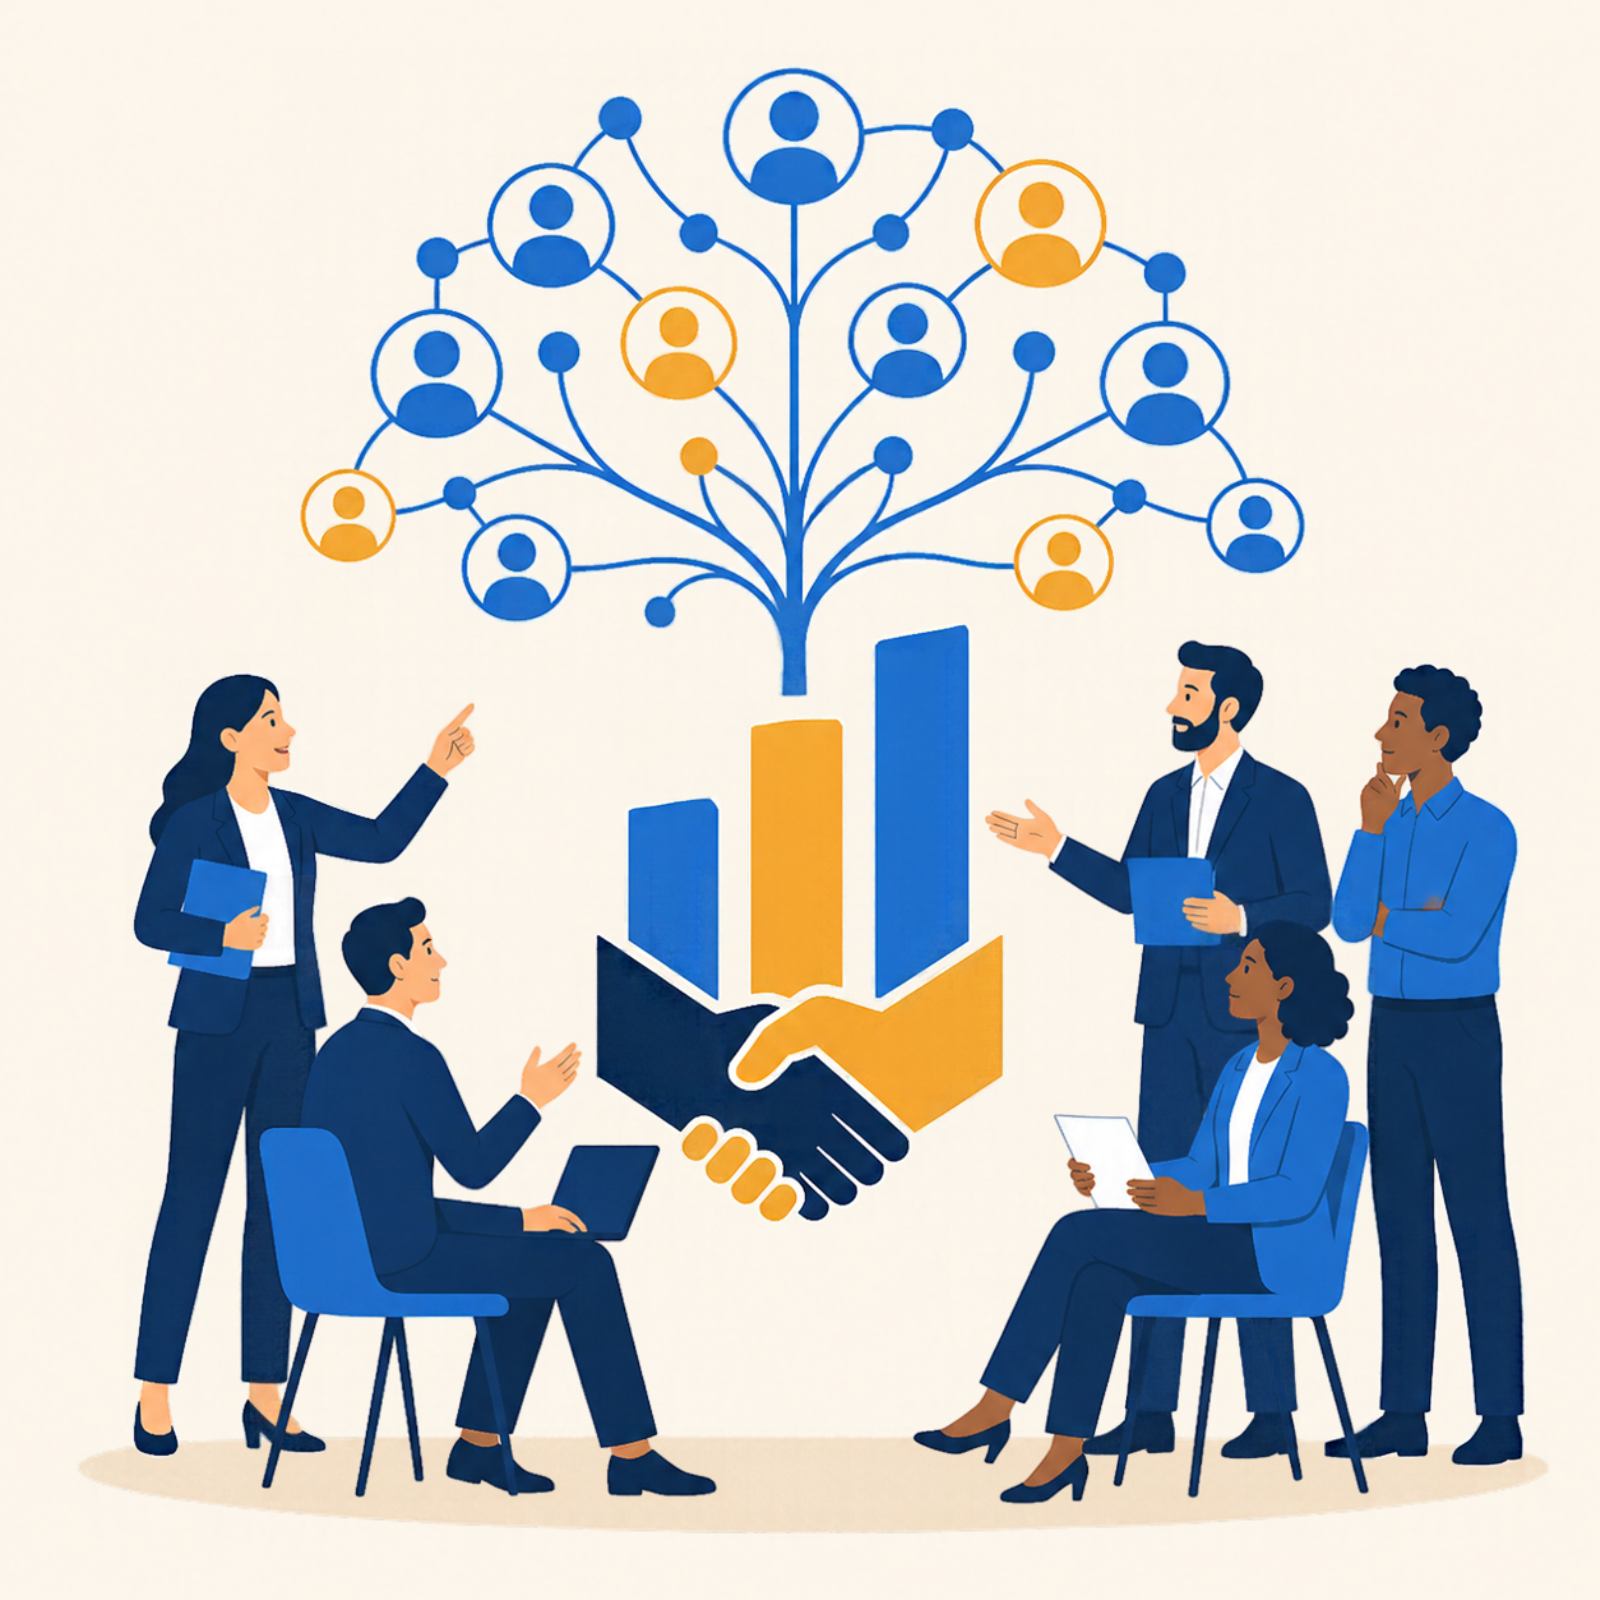
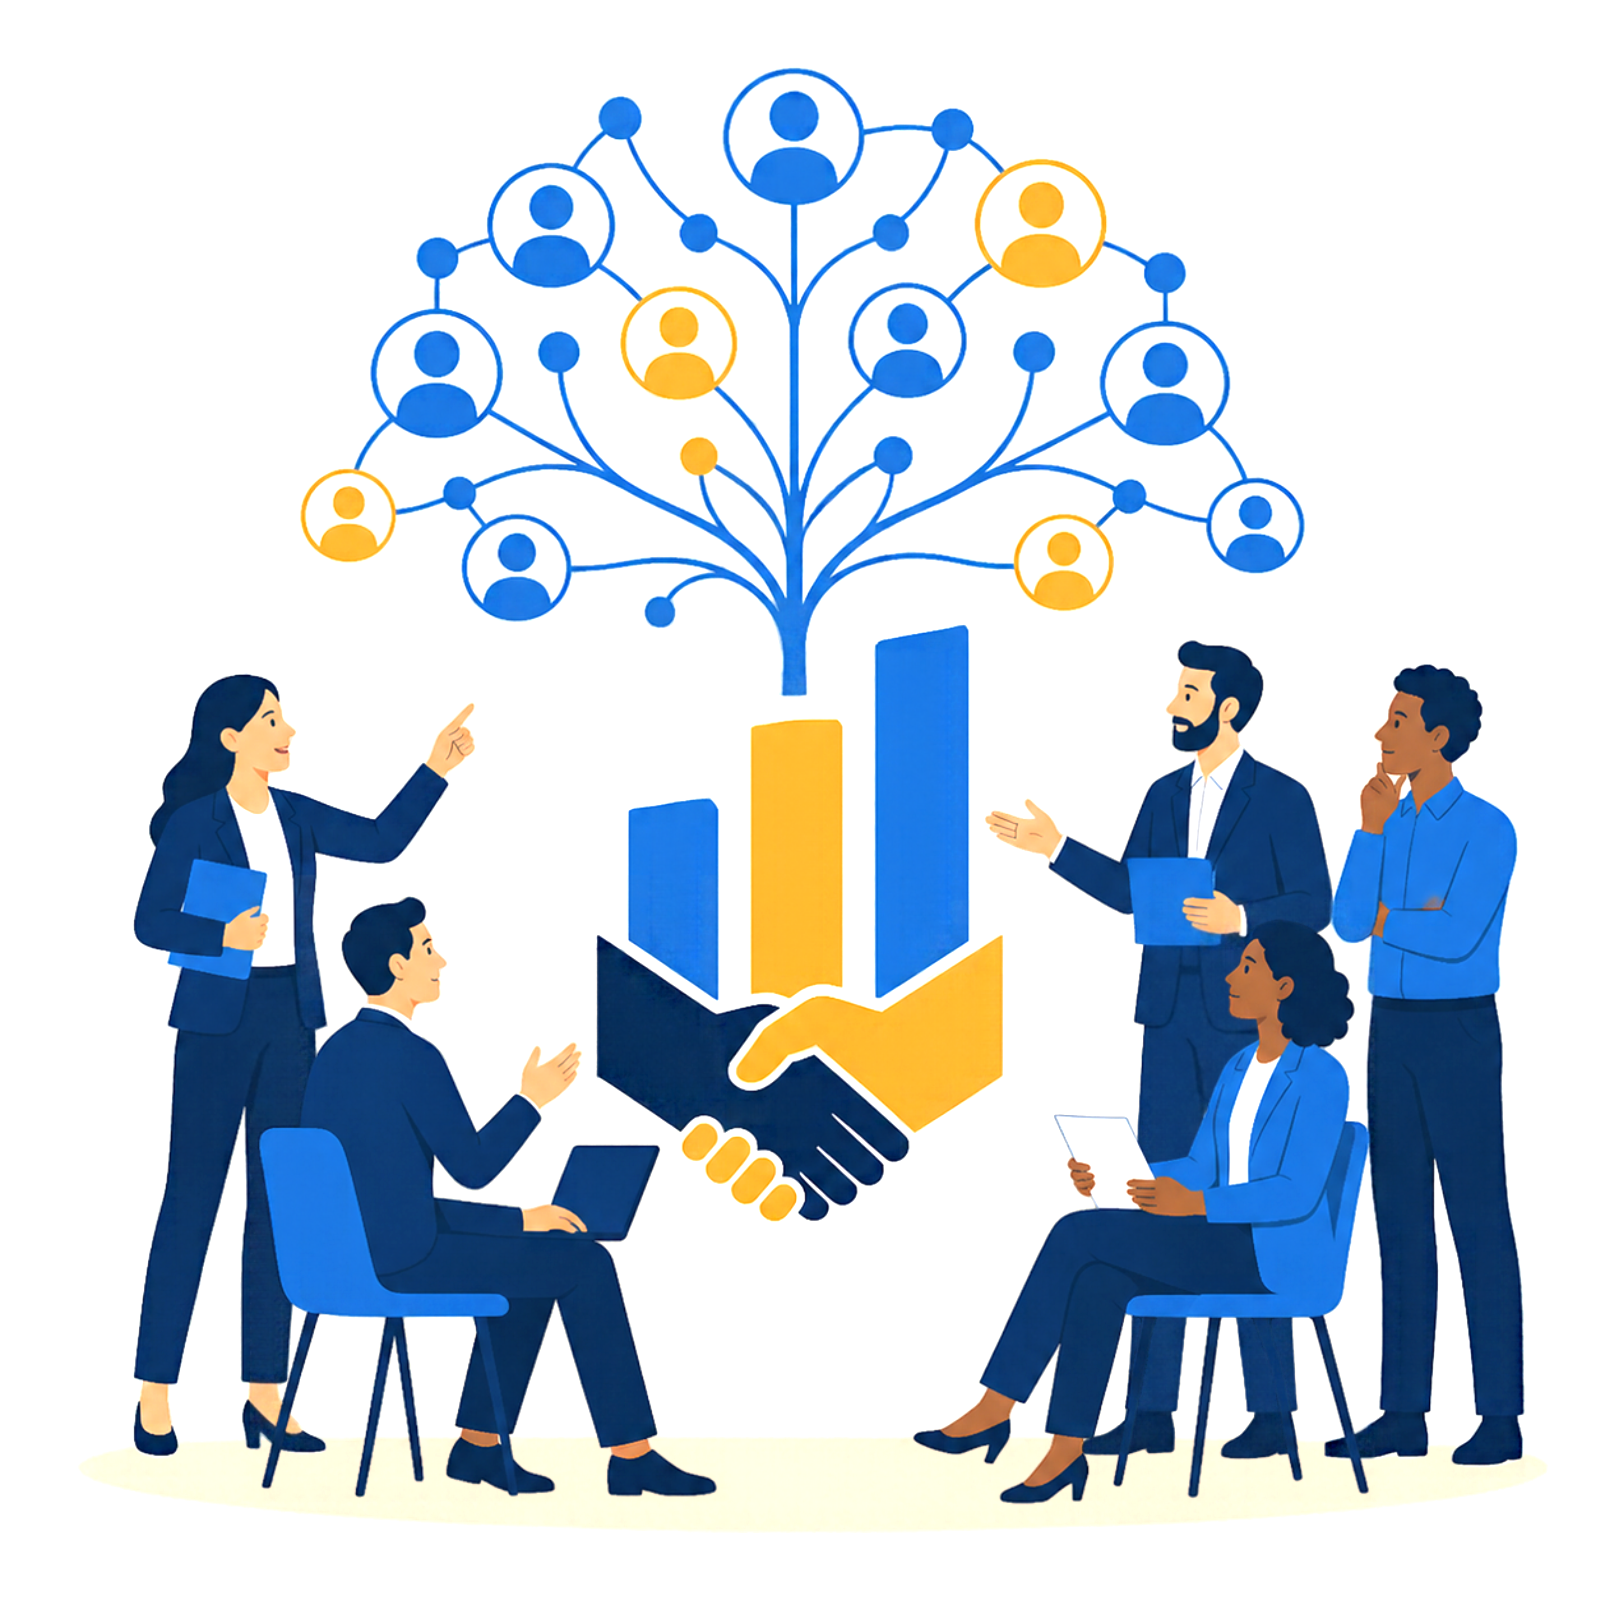
Fix cropped service-page hero images and brighten the About Us graphic
The new split heroes on Learning/HR Solutions/People Advisory forced
landscape illustrations (~1.98:1) into a square/portrait frame
(aspect-[4/5] / aspect-square), cropping out most of each image.
Switched all three to aspect-video so the full illustration shows.

Brightened the About Us illustration on the homepage (PIL brightness
+contrast) and lightened its dark overlay from 40% to 15% opacity so
the brightening is actually visible on the page.

Claude-Session: https://claude.ai/code/session_01Mq2wtNRCCAB7CkA3yRkA1i

diff --git a/src/components/About.tsx b/src/components/About.tsx
@@ -23,7 +23,7 @@ export default function About() {
               alt="Illustration of the Zebulon Consulting team collaborating on people, growth and performance"
               className="w-full h-full object-cover transition-transform duration-700 group-hover:scale-110"
             />
-            <div className="absolute inset-0 bg-gradient-to-tr from-deep-navy/40 to-transparent"></div>
+            <div className="absolute inset-0 bg-gradient-to-tr from-deep-navy/15 to-transparent"></div>
             <div className="absolute bottom-6 left-6 glass p-5 rounded-xl flex items-center gap-4">
               <div className="w-11 h-11 rounded-full bg-gold-accent/15 flex items-center justify-center text-gold-accent flex-shrink-0">
                 <Award size={20} />

diff --git a/src/components/PeopleAdvisoryPage.tsx b/src/components/PeopleAdvisoryPage.tsx
@@ -132,7 +132,7 @@ export default function PeopleAdvisoryPage() {
             transition={{ duration: 0.8, delay: 0.15 }}
             className="relative"
           >
-            <div className="relative rounded-[32px] overflow-hidden shadow-2xl shine-sweep aspect-[4/5] md:aspect-square">
+            <div className="relative rounded-[32px] overflow-hidden shadow-2xl shine-sweep aspect-video">
               <img
                 src="/images/people-advisory-hero-illustration.jpg"
                 alt="Illustration of strategic people advisory and organisational design"

diff --git a/src/components/LearningPage.tsx b/src/components/LearningPage.tsx
@@ -159,7 +159,7 @@ export default function LearningPage() {
             transition={{ duration: 0.8, delay: 0.15 }}
             className="relative"
           >
-            <div className="relative rounded-[32px] overflow-hidden shadow-2xl shine-sweep aspect-[4/5] md:aspect-square">
+            <div className="relative rounded-[32px] overflow-hidden shadow-2xl shine-sweep aspect-video">
               <img
                 src="/images/learning-hero-illustration.jpg"
                 alt="Illustration of corporate learning and leadership development"

diff --git a/src/components/HRSolutionsPage.tsx b/src/components/HRSolutionsPage.tsx
@@ -135,7 +135,7 @@ export default function HRSolutionsPage() {
             transition={{ duration: 0.8, delay: 0.15 }}
             className="relative"
           >
-            <div className="relative rounded-[32px] overflow-hidden shadow-2xl shine-sweep aspect-[4/5] md:aspect-square">
+            <div className="relative rounded-[32px] overflow-hidden shadow-2xl shine-sweep aspect-video">
               <img
                 src="/images/hr-solutions-hero-illustration.jpg"
                 alt="Illustration of HR recruitment and people operations"
